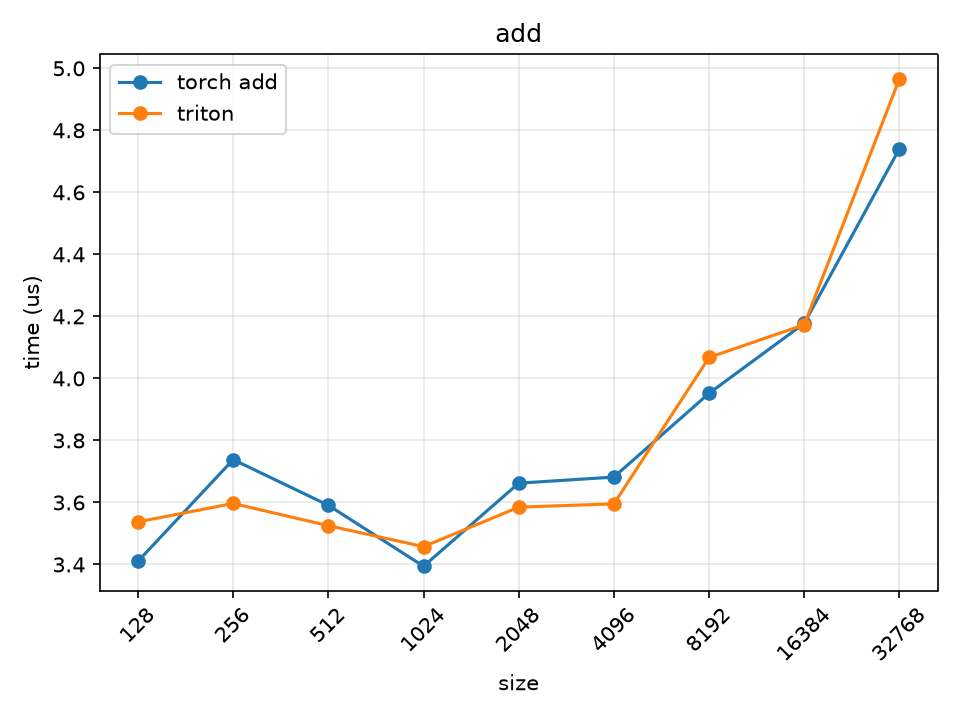
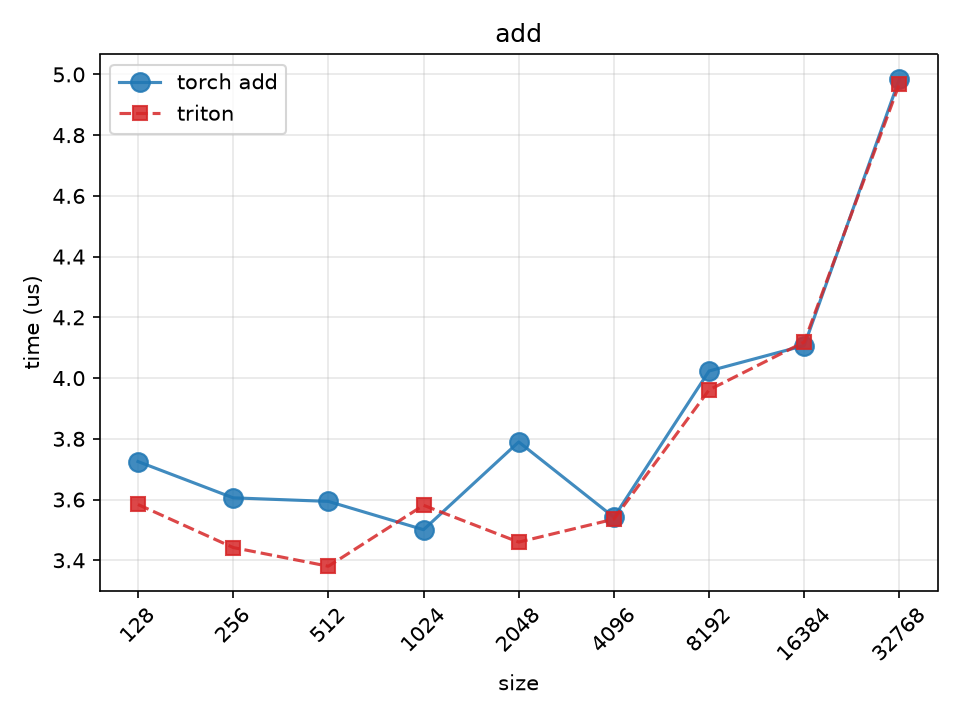
update benchmark images and tutorials; add relu_fused kernel implementation and enhance plotting functionality

diff --git a/tutorial/utils.py b/tutorial/utils.py
@@ -7,47 +7,96 @@ from triton.testing import do_bench
 
 BENCHMARK_DIR = Path(__file__).resolve().parent.parent / "benchmark"
 
+# Plot styles
+STYLES = [
+    {
+        "color": "tab:blue",
+        "marker": "o",
+        "linestyle": "-",
+        "markersize": 9,
+        "alpha": 0.85,
+    },
+    {
+        "color": "tab:red",
+        "marker": "s",
+        "linestyle": "--",
+        "markersize": 7,
+        "alpha": 0.85,
+    },
+    {
+        "color": "tab:green",
+        "marker": "^",
+        "linestyle": "-",
+        "markersize": 5,
+        "alpha": 0.85,
+    },
+    {
+        "color": "tab:purple",
+        "marker": "D",
+        "linestyle": "-.",
+        "markersize": 7,
+        "alpha": 0.85,
+    },
+    {
+        "color": "tab:orange",
+        "marker": "v",
+        "linestyle": ":",
+        "markersize": 7,
+        "alpha": 0.85,
+    },
+]
+
 
 def bench_sweep(
     providers: dict[str, Callable],
-    xs: list[int],
+    x_sweep: list[int],
     make_inputs: Callable,
-    name: str,
     xlabel: str,
+    title: str,
+    filename: str,
 ):
     """
-    Time each provider over xs and save a plot to benchmark/<name>.png.
+    Time each provider over x_sweep and save a plot to benchmark/<filename>.png.
 
     Args:
         providers: A dictionary of provider names and their functions.
-        xs: A list of input sizes.
+        x_sweep: A list of input sizes.
         make_inputs: A function that makes input arguments for the provider functions.
-        name: The name of the benchmark.
         xlabel: The label of the x-axis.
+        title: The title of the benchmark.
+        filename: The filename of the benchmark.
 
-    Save the plot to benchmark/<name>.png.
+    Save the plot to benchmark/<filename>.png.
     """
+    assert 0 < len(providers) <= len(STYLES), (
+        "Number of providers must be greater than 0 and less than or equal to the number of styles"
+    )
 
+    # Generate the results
     results = {label: [] for label in providers}
-    for x in xs:
+    for x in x_sweep:
+        # generate the inputs
         args = make_inputs(x)
+
+        # time the providers
         for label, fn in providers.items():
             results[label].append(do_bench(partial(fn, *args)) * 1e3)  # ms -> us
+
         print(x, {label: round(us[-1], 2) for label, us in results.items()})
 
     # Plot the results
-    for label, us in results.items():
-        plt.plot(xs, us, marker="o", label=label)
+    for i, (label, us) in enumerate(results.items()):
+        plt.plot(x_sweep, us, label=label, **STYLES[i % len(STYLES)])
     plt.xscale("log", base=2)
-    plt.xticks(xs, [str(x) for x in xs], rotation=45)
+    plt.xticks(x_sweep, [str(x) for x in x_sweep], rotation=45)
     plt.xlabel(xlabel)
     plt.ylabel("time (us)")
-    plt.title(name)
+    plt.title(title)
     plt.legend()
     plt.grid(alpha=0.3)
 
     # Save the plot
     BENCHMARK_DIR.mkdir(exist_ok=True)
     plt.tight_layout()
-    plt.savefig(BENCHMARK_DIR / f"{name}.png", dpi=150)
+    plt.savefig(BENCHMARK_DIR / f"{filename}.png", dpi=150)
     plt.close()

diff --git a/tutorial/3_relu_fused.py b/tutorial/3_relu_fused.py
@@ -1,6 +1,7 @@
 import torch
 import triton
 import triton.language as tl
+from utils import bench_sweep
 
 
 @triton.jit
@@ -42,10 +43,9 @@ def relu_fused_kernel(
     )
 
 
-def relu_fused(x, w, b):
+def relu_fused(x, w, b, BLOCK=256):
     out = torch.empty_like(x)
 
-    BLOCK = 256
     n, d = x.shape
 
     if triton.next_power_of_2(d) > BLOCK:
@@ -65,32 +65,42 @@ def relu_fused(x, w, b):
 
 
 if __name__ == "__main__":
-    from triton.testing import do_bench
+    x_test = torch.randn(1000, 512, device="cuda")
+    w_test = torch.randn(512, device="cuda")
+    b_test = torch.randn(512, device="cuda")
+
+    eager_func = lambda x, w, b: torch.relu(x * w + b)
+
+    torch.testing.assert_close(
+        eager_func(x_test, w_test, b_test), relu_fused(x_test, w_test, b_test)
+    )
+    print("correct!")
 
     # Benchmark over triton, compile and eager
-    n = 50_000
-    x = torch.randn(512, n).cuda().T
-    w = torch.randn(512).cuda()
-    b = torch.randn(512).cuda()
-
-    eager = lambda: torch.relu(x * w + b)
-    compiled_fn = torch.compile(lambda x, w, b: torch.relu(x * w + b))
-    compiled = lambda: compiled_fn(x, w, b)
-    yours = lambda: relu_fused(x, w, b)
-
-    torch.testing.assert_close(yours(), eager())
-
-    for name, f in [("eager", eager), ("torch.compile", compiled), ("triton", yours)]:
-        ms = do_bench(f, warmup=50, rep=1000)
-        print(f"{name:14s} {ms:.3f} ms")
+    # dynamic=False recompiles a shape-specialized kernel for every n; raise the
+    # recompile limit (default 8) so later sizes don't silently fall back to eager.
+    torch._dynamo.config.recompile_limit = 64
+    compiled = torch.compile(eager_func, dynamic=False)
+    bench_sweep(
+        {"eager": eager_func, "torch.compile": compiled, "triton": relu_fused},
+        [2**i for i in range(7, 16)],
+        lambda n: (
+            torch.randn(n, 512, device="cuda"),
+            torch.randn(512, device="cuda"),
+            torch.randn(512, device="cuda"),
+        ),
+        name="relu_fused",
+        xlabel="n",
+    )
 
     # Benchmark over block size
-    n = 100
-    x = torch.randn(n, 1024).cuda()
-    w = torch.randn(1024).cuda()
-    b = torch.randn(1024).cuda()
-
-    for block_size in [128, 256, 512, 1024, 2048, 4096]:
-        yours = lambda: relu_fused(x, w, b, BLOCK=block_size)
-        ms = do_bench(yours, warmup=50, rep=1000)
-        print(f"{block_size:14d} {ms:.3f} ms")
+    x = torch.randn(100, 1024, device="cuda")
+    w = torch.randn(1024, device="cuda")
+    b = torch.randn(1024, device="cuda")
+    bench_sweep(
+        {"triton": relu_fused},
+        [128, 256, 512, 1024, 2048, 4096],
+        lambda block: (x, w, b, block),
+        name="relu_fused_block",
+        xlabel="BLOCK",
+    )

diff --git a/tutorial/1_fill.py b/tutorial/1_fill.py
@@ -41,9 +41,10 @@ if __name__ == "__main__":
     print("correct!")
 
     bench_sweep(
-        {"torch fill": torch_func, "triton": fill},
+        {"torch.fill_": torch_func, "triton": fill},
         [2**i for i in range(7, 16)],
         lambda n: (torch.empty(n, device="cuda", dtype=torch.float32), value),
-        name="fill",
         xlabel="size",
+        title="Compare: Triton vs. torch.fill_",
+        filename="1_fill",
     )

diff --git a/tutorial/2_add.py b/tutorial/2_add.py
@@ -46,9 +46,10 @@ if __name__ == "__main__":
     print("correct!")
 
     bench_sweep(
-        {"torch add": torch.add, "triton": add},
+        {"torch.add": torch.add, "triton": add},
         [2**i for i in range(7, 16)],
         lambda n: (torch.randn(n, device="cuda"), torch.randn(n, device="cuda")),
-        name="add",
         xlabel="size",
+        title="Compare: Triton vs. torch.add",
+        filename="2_add",
     )
